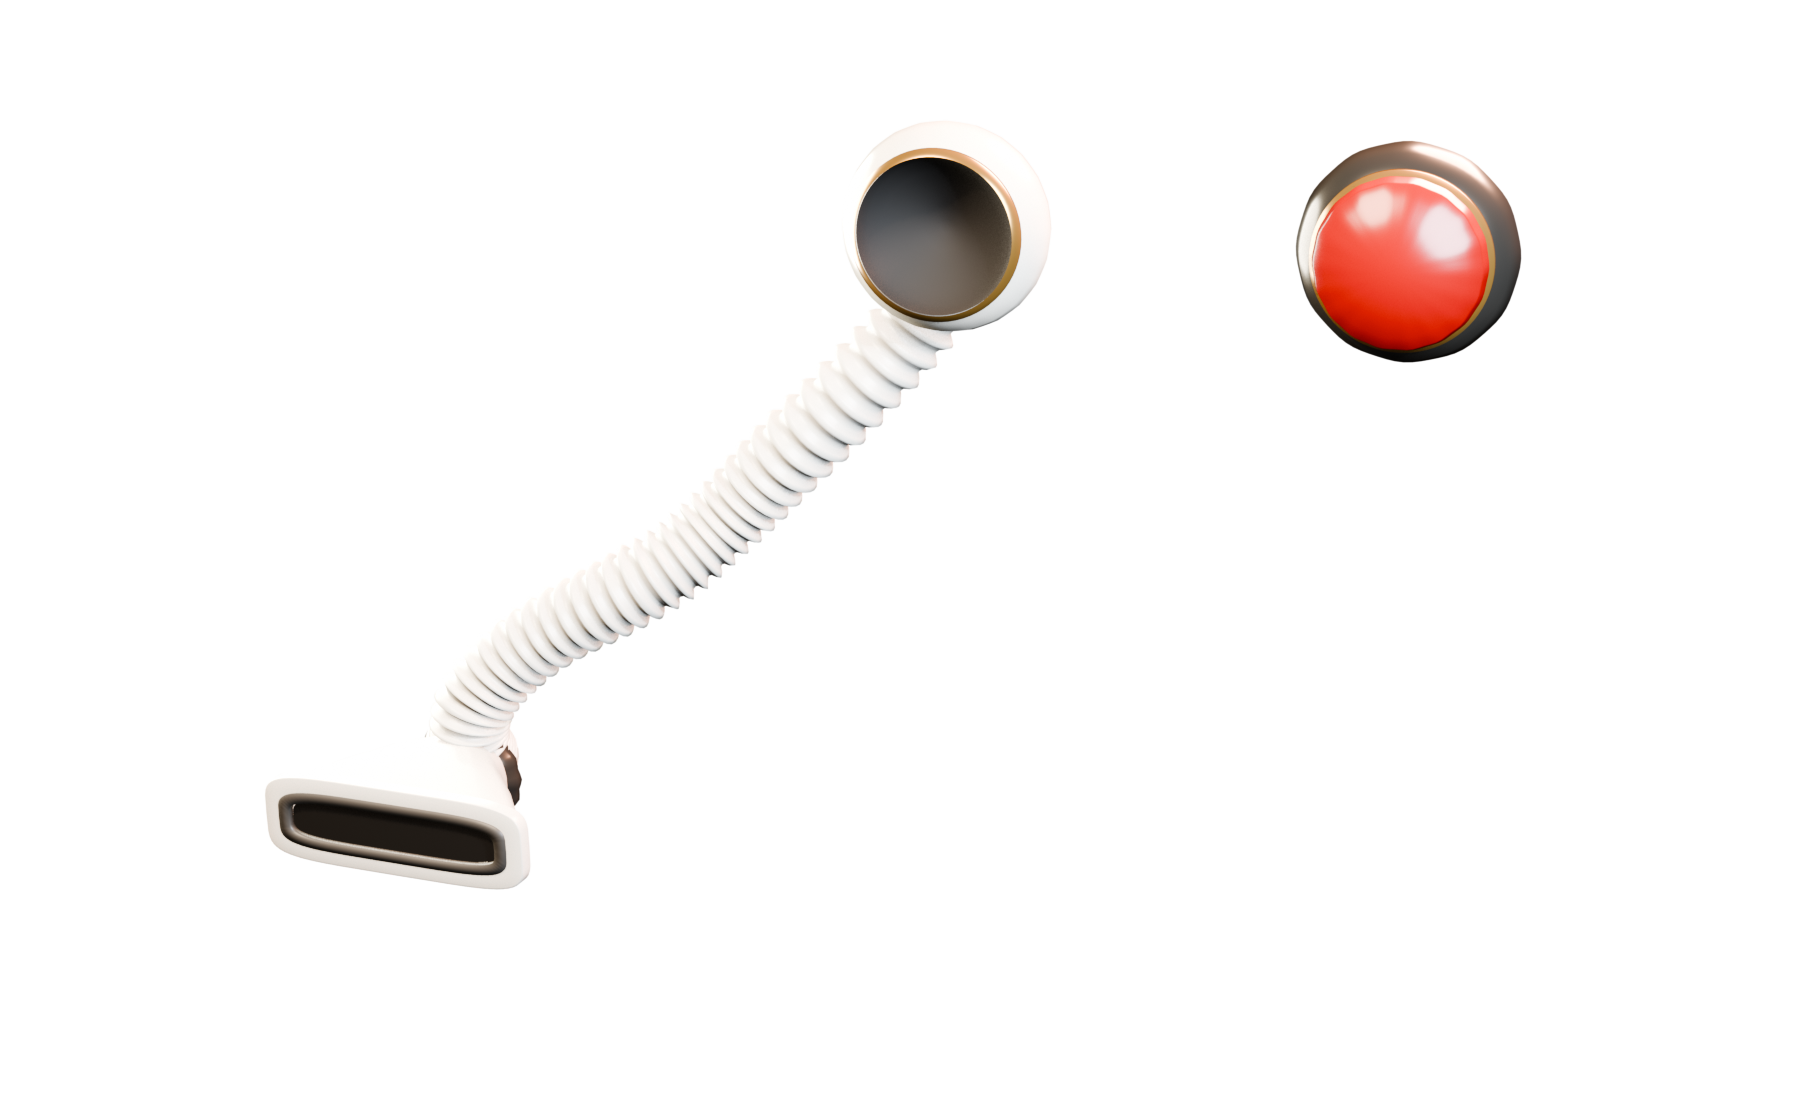
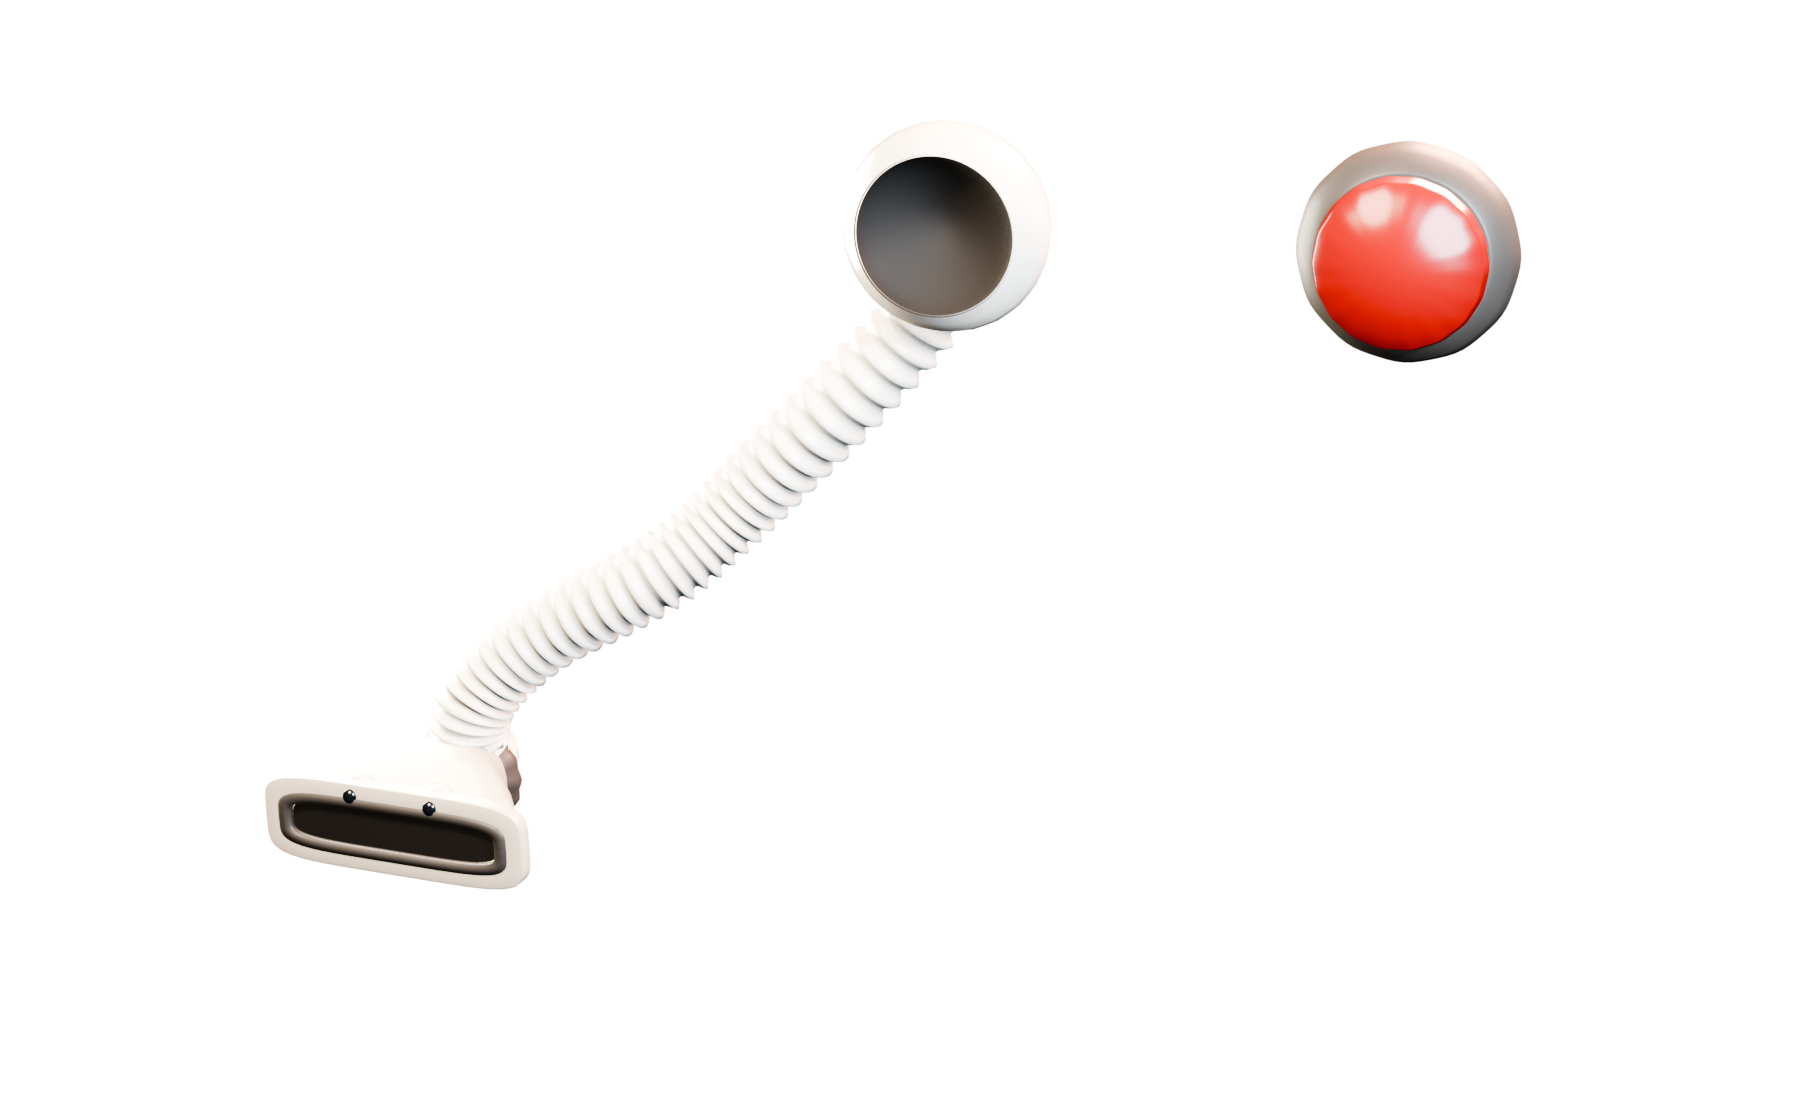
fix: turn the Voice VAC mouth upward

diff --git a/native/macos/App/VoiceVACAppTests/NozzleInteractionTests.swift b/native/macos/App/VoiceVACAppTests/NozzleInteractionTests.swift
@@ -1,4 +1,5 @@
 import AppKit
+import RealityKit
 import simd
 import VoiceVACCore
 import XCTest
@@ -96,10 +97,39 @@ final class NozzleInteractionTests: XCTestCase {
         let firstPass = stride(from: 0.0, through: animator.duration, by: 0.025).map(animator.frame(at:))
         let secondPass = stride(from: 0.0, through: animator.duration, by: 0.025).map(animator.frame(at:))
         XCTAssertEqual(firstPass, secondPass)
+        XCTAssertLessThanOrEqual(
+            firstPass.map { abs($0.translation.x) }.max() ?? .infinity,
+            6,
+            "The URL gesture must curl into screen depth, not travel to the right"
+        )
+        XCTAssertGreaterThan(
+            firstPass.map(\.intoScreenDepth).max() ?? 0,
+            0.04,
+            "The double-click gesture needs a visible Z-depth S curl"
+        )
         XCTAssertEqual(animator.frame(at: 0).stage, .unlockAndLift)
         XCTAssertEqual(animator.frame(at: animator.duration).stage, .reverseSCurlAndInput)
-        XCTAssertEqual(animator.frame(at: animator.duration).mouthRotation, .pi / 2, accuracy: 0.0001)
+        XCTAssertEqual(animator.frame(at: animator.duration).mouthRevealRotation, .pi / 2, accuracy: 0.0001)
         XCTAssertTrue(animator.frame(at: animator.duration).showsURLInput)
+    }
+
+    func testDoubleClickFinishMovesIntoDepthAndExposesTheMouthToTheCamera() async throws {
+        let animator = NozzleURLAnimator()
+        let finalFrame = animator.frame(at: animator.duration)
+        let device = VoiceVACDeviceInteractionController()
+        let nozzle = try await device.loadNozzleClone()
+        let presentationRoot = Entity()
+        device.bindNozzlePresentationRoot(presentationRoot)
+
+        try device.applyURLAnimationFrame(finalFrame)
+
+        XCTAssertEqual(
+            presentationRoot.position.z,
+            -nozzle.position.z - Float(finalFrame.intoScreenDepth),
+            accuracy: 0.000_01
+        )
+        let cameraFacingMouthNormal = nozzle.transform.rotation.act(SIMD3<Float>(0, -1, 0))
+        XCTAssertGreaterThan(cameraFacingMouthNormal.z, 0.9)
     }
 
     func testURLInputOnlyBecomesKeyWhilePresentedAndAcceptsReturnAndStart() throws {

diff --git a/native/macos/App/VoiceVAC/Interaction/NozzleURLAnimator.swift b/native/macos/App/VoiceVAC/Interaction/NozzleURLAnimator.swift
@@ -20,7 +20,10 @@ struct NozzleURLAnimationFrame: Equatable {
     let stageProgress: CGFloat
     let translation: CGPoint
     let lift: CGFloat
-    let mouthRotation: CGFloat
+    /// Positive values travel away from the camera, deeper into the desktop.
+    let intoScreenDepth: CGFloat
+    /// Rotates the duckbill around screen X until the mouth faces the user.
+    let mouthRevealRotation: CGFloat
     let cCurl: CGFloat
     let reverseSCurl: CGFloat
     let inputOpacity: CGFloat
@@ -56,7 +59,8 @@ struct NozzleURLAnimator {
                 stageProgress: progress,
                 translation: CGPoint(x: 0, y: 18 * eased),
                 lift: 18 * eased,
-                mouthRotation: 0,
+                intoScreenDepth: 0.006 * eased,
+                mouthRevealRotation: 0,
                 cCurl: 0,
                 reverseSCurl: 0,
                 inputOpacity: 0,
@@ -66,9 +70,10 @@ struct NozzleURLAnimator {
             return NozzleURLAnimationFrame(
                 stage: keyframe.stage,
                 stageProgress: progress,
-                translation: CGPoint(x: 0, y: 18),
+                translation: CGPoint(x: 0, y: 18 + 4 * eased),
                 lift: 18,
-                mouthRotation: (.pi / 2) * eased,
+                intoScreenDepth: 0.006 + 0.038 * eased,
+                mouthRevealRotation: (.pi / 5) * eased,
                 cCurl: 0,
                 reverseSCurl: 0,
                 inputOpacity: 0,
@@ -79,11 +84,12 @@ struct NozzleURLAnimator {
                 stage: keyframe.stage,
                 stageProgress: progress,
                 translation: CGPoint(
-                    x: 112 * eased,
-                    y: 18 + sin(.pi * eased) * 30
+                    x: 5 * sin(.pi * eased),
+                    y: 22 + 12 * eased
                 ),
                 lift: 18,
-                mouthRotation: .pi / 2,
+                intoScreenDepth: 0.044 + 0.022 * sin(.pi * eased),
+                mouthRevealRotation: (.pi / 5) + (3 * .pi / 10) * eased,
                 cCurl: eased,
                 reverseSCurl: 0,
                 inputOpacity: 0,
@@ -95,11 +101,12 @@ struct NozzleURLAnimator {
                 stage: keyframe.stage,
                 stageProgress: progress,
                 translation: CGPoint(
-                    x: 112 + 74 * eased,
-                    y: 18 + sin(eased * .pi * 2) * 13
+                    x: -5 * sin(eased * .pi * 2),
+                    y: 34 + 8 * eased
                 ),
                 lift: 18,
-                mouthRotation: .pi / 2,
+                intoScreenDepth: 0.044 - 0.026 * eased + 0.008 * sin(eased * .pi * 2),
+                mouthRevealRotation: .pi / 2,
                 cCurl: 1,
                 reverseSCurl: eased,
                 inputOpacity: inputProgress,

diff --git a/native/macos/App/VoiceVAC/Reality/VoiceVACDeviceInteractionController.swift b/native/macos/App/VoiceVAC/Reality/VoiceVACDeviceInteractionController.swift
@@ -192,21 +192,32 @@ final class VoiceVACDeviceInteractionController {
         }
         let docked = try requiredTransform(for: .nozzleDocked)
         let lifted = try requiredTransform(for: .nozzleLiftRotate)
-        let deployed = try requiredTransform(for: .nozzleDeployed)
         let authored: Transform
         switch frame.stage {
         case .unlockAndLift:
             authored = Self.interpolate(from: docked, to: lifted, progress: Float(frame.stageProgress))
-        case .rotateInPlane:
+        case .rotateInPlane, .cExtension, .reverseSCurlAndInput:
+            // The URL gesture stays above its dock and bends through Z depth.
+            // Interpolating toward the drag pose here would introduce the old
+            // rightward screen-plane sweep the interaction is meant to avoid.
             authored = lifted
-        case .cExtension, .reverseSCurlAndInput:
-            authored = Self.interpolate(from: lifted, to: deployed, progress: Float(frame.stageProgress))
         }
         var transformed = authored
-        let extraRotation = simd_quatf(angle: Float(frame.mouthRotation), axis: SIMD3(0, 0, 1))
-        transformed.rotation = simd_normalize(authored.rotation * extraRotation)
+        let mouthReveal = simd_quatf(
+            angle: Float(frame.mouthRevealRotation),
+            axis: SIMD3(1, 0, 0)
+        )
+        // This is a screen-space pitch, not a local-roll. The dock pose turns
+        // the narrow side of the nozzle toward the viewer; pre-multiplying
+        // tips its upward-facing mouth through Z until the opening faces the
+        // camera at the end of the reverse-S gesture.
+        transformed.rotation = simd_normalize(mouthReveal * authored.rotation)
         nozzleEntity.transform = transformed
         recenterNozzlePresentation()
+        // The presentation camera sits on +Z and looks toward -Z. Moving the
+        // presentation root in -Z therefore makes the head curl into the
+        // screen instead of sliding across the desktop to the right.
+        nozzlePresentationRootEntity?.position.z -= Float(frame.intoScreenDepth)
     }
 
     func bindNozzlePresentationRoot(_ root: Entity) {

diff --git a/native/macos/App/VoiceVACAppTests/RealityAssetContractTests.swift b/native/macos/App/VoiceVACAppTests/RealityAssetContractTests.swift
@@ -72,13 +72,28 @@ final class RealityAssetContractTests: XCTestCase {
         XCTAssertEqual(contract.reproducibility.sceneSemanticSHA256.count, 64)
     }
 
-    func testBundledDeviceUsesVacuumMaterialsInsteadOfOrnamentalBrass() throws {
+    func testBundledDeviceKeepsTheHoseWhiteAndWarmsOnlyTheVacuumHead() throws {
         let contract = try loadContract()
 
         XCTAssertFalse(contract.materials.contains("MAT_BRASS_ACCENT"))
         XCTAssertFalse(contract.materials.contains { $0.localizedCaseInsensitiveContains("brass") })
+        XCTAssertTrue(contract.materials.contains("MAT_PEARL_PLASTIC"))
+        XCTAssertTrue(contract.materials.contains("MAT_PEARL_RIBBED"))
         XCTAssertTrue(contract.materials.contains("MAT_TOY_IVORY"))
-        XCTAssertTrue(contract.materials.contains("MAT_TOY_IVORY_RIBBED"))
+        XCTAssertEqual(contract.materialAssignments["VAC_PORT"], ["MAT_PEARL_PLASTIC"])
+        XCTAssertEqual(contract.materialAssignments["VAC_HOSE_SKIN"], ["MAT_PEARL_RIBBED"])
+        XCTAssertEqual(contract.materialAssignments["VAC_NOZZLE_SHELL"], ["MAT_TOY_IVORY"])
+        XCTAssertEqual(contract.materialAssignments["VAC_NOZZLE_TIP"], ["MAT_TOY_IVORY"])
+    }
+
+    func testBundledDockPosePointsTheDuckbillUpward() throws {
+        let contract = try loadContract()
+        let dock = try XCTUnwrap(contract.runtimePoseDelivery.namedPoses["nozzleDocked"])
+
+        XCTAssertEqual(abs(dock.transform.rotationQuaternion[1]), sqrt(0.5), accuracy: 0.000_1)
+        XCTAssertEqual(abs(dock.transform.rotationQuaternion[2]), 0, accuracy: 0.000_1)
+        XCTAssertEqual(abs(dock.transform.rotationQuaternion[3]), sqrt(0.5), accuracy: 0.000_1)
+        XCTAssertEqual(abs(dock.transform.rotationQuaternion[0]), 0, accuracy: 0.000_1)
     }
 
     func testBundledNozzleHasTwoToyEyes() throws {
@@ -314,6 +329,7 @@ private struct AssetContract: Decodable {
     let runtimeNodes: [String]
     let joints: [String]
     let materials: [String]
+    let materialAssignments: [String: [String]]
     let localBounds: [String: Bounds]
     let nominalDockTransform: AssetTransform
     let nozzlePivot: AssetTransform

diff --git a/native/macos/App/VoiceVACAppTests/ProductionInteractionIntegrationTests.swift b/native/macos/App/VoiceVACAppTests/ProductionInteractionIntegrationTests.swift
@@ -59,10 +59,14 @@ final class ProductionInteractionIntegrationTests: XCTestCase {
         XCTAssertEqual(deployed.translation.x, expected.translation.x, accuracy: 0.000001)
         XCTAssertEqual(deployed.translation.y, expected.translation.y, accuracy: 0.000001)
         XCTAssertEqual(deployed.translation.z, expected.translation.z, accuracy: 0.000001)
-        XCTAssertEqual(deployed.rotation.real, expected.rotation.real, accuracy: 0.000001)
-        XCTAssertEqual(deployed.rotation.imag.x, expected.rotation.imag.x, accuracy: 0.000001)
-        XCTAssertEqual(deployed.rotation.imag.y, expected.rotation.imag.y, accuracy: 0.000001)
-        XCTAssertEqual(deployed.rotation.imag.z, expected.rotation.imag.z, accuracy: 0.000001)
+        // q and -q encode the same orientation. The new upward dock pose makes
+        // slerp arrive at the deployed quaternion through the opposite, but
+        // visually identical, quaternion hemisphere.
+        let deployedForward = deployed.rotation.act(SIMD3<Float>(0, -1, 0))
+        let expectedForward = expected.rotation.act(SIMD3<Float>(0, -1, 0))
+        XCTAssertEqual(deployedForward.x, expectedForward.x, accuracy: 0.000001)
+        XCTAssertEqual(deployedForward.y, expectedForward.y, accuracy: 0.000001)
+        XCTAssertEqual(deployedForward.z, expectedForward.z, accuracy: 0.000001)
     }
 
     func testLiveFactoryWiresOneSharedStoreRuntimeAndRealPanels() throws {
@@ -236,7 +240,9 @@ final class ProductionInteractionIntegrationTests: XCTestCase {
 
         XCTAssertNotEqual(nozzle.transform, initial)
         XCTAssertEqual(presenter.urlPresentationEvents, [false, true])
-        XCTAssertEqual(try XCTUnwrap(presenter.nozzleMoves.last).center.x, 386, accuracy: 0.001)
+        let finalMove = try XCTUnwrap(presenter.nozzleMoves.last)
+        XCTAssertEqual(finalMove.center.x, 200, accuracy: 0.001)
+        XCTAssertEqual(finalMove.center.y, 242, accuracy: 0.001)
         XCTAssertFalse(clock.isRunning)
     }
 

diff --git a/tools/blender/scripts/build_voice_vac.py b/tools/blender/scripts/build_voice_vac.py
@@ -28,8 +28,9 @@ from mathutils import Matrix, Vector
 SCHEMA_VERSION = 2
 JOINT_NAMES = [f"VAC_HOSE_JOINT_{index:02d}" for index in range(64)]
 MATERIAL_NAMES = [
+    "MAT_PEARL_PLASTIC",
+    "MAT_PEARL_RIBBED",
     "MAT_TOY_IVORY",
-    "MAT_TOY_IVORY_RIBBED",
     "MAT_CHARCOAL_RUBBER",
     "MAT_BUTTON_RED",
     "MAT_MOUTH_DARK",
@@ -166,6 +167,28 @@ def create_material(
 
 def build_materials() -> dict[str, bpy.types.Material]:
     return {
+        "MAT_PEARL_PLASTIC": create_material(
+            "MAT_PEARL_PLASTIC",
+            (0.91, 0.875, 0.79, 1.0),
+            metallic=0.02,
+            roughness=0.24,
+            coat_weight=0.34,
+            coat_roughness=0.16,
+            subsurface_weight=0.025,
+            handmade_bump=0.055,
+        ),
+        "MAT_PEARL_RIBBED": create_material(
+            "MAT_PEARL_RIBBED",
+            # Keep the accordion body white. The warmer toy ivory belongs to
+            # the detachable vacuum head only.
+            (0.93, 0.91, 0.84, 1.0),
+            metallic=0.0,
+            roughness=0.38,
+            coat_weight=0.16,
+            coat_roughness=0.26,
+            subsurface_weight=0.018,
+            handmade_bump=0.075,
+        ),
         "MAT_TOY_IVORY": create_material(
             "MAT_TOY_IVORY",
             (0.70, 0.64, 0.52, 1.0),
@@ -175,18 +198,6 @@ def build_materials() -> dict[str, bpy.types.Material]:
             coat_roughness=0.19,
             subsurface_weight=0.025,
             handmade_bump=0.055,
-        ),
-        "MAT_TOY_IVORY_RIBBED": create_material(
-            "MAT_TOY_IVORY_RIBBED",
-            # Warm cream must survive the white desktop without becoming a
-            # bright yellow toy or a grey technical conduit.
-            (0.73, 0.68, 0.57, 1.0),
-            metallic=0.0,
-            roughness=0.41,
-            coat_weight=0.14,
-            coat_roughness=0.29,
-            subsurface_weight=0.018,
-            handmade_bump=0.075,
         ),
         "MAT_CHARCOAL_RUBBER": create_material(
             "MAT_CHARCOAL_RUBBER",
@@ -471,7 +482,7 @@ def build_device(
     port = lathe_mesh(
         "VAC_PORT",
         port_profile,
-        materials["MAT_TOY_IVORY"],
+        materials["MAT_PEARL_PLASTIC"],
         collection,
         radial_ripple=0.003,
         ripple_count=24,
@@ -505,7 +516,7 @@ def build_device(
     nozzle.empty_display_type = "ARROWS"
     nozzle.location = DOCK_LOCATION
     nozzle.rotation_mode = "XYZ"
-    nozzle.rotation_euler = (0.0, math.radians(90.0), 0.0)
+    nozzle.rotation_euler = (0.0, math.radians(90.0), math.radians(180.0))
     nozzle["voice_vac_pivot"] = "rotary_collar_center"
     parent(nozzle, device_root)
 
@@ -662,7 +673,7 @@ def build_device(
     ready_light = lathe_mesh(
         "VAC_BUTTON_READY_LIGHT",
         [(-0.021, 0.051), (-0.024, 0.054), (-0.028, 0.054), (-0.031, 0.051)],
-        materials["MAT_TOY_IVORY"],
+        materials["MAT_PEARL_PLASTIC"],
         collection,
         segments=80,
         cap_start=False,
@@ -797,7 +808,7 @@ def build_hose(
         vertices,
         faces,
         uvs,
-        materials["MAT_TOY_IVORY_RIBBED"],
+        materials["MAT_PEARL_RIBBED"],
         collection,
     )
     skin.parent = armature
@@ -879,8 +890,8 @@ def build_actions(device: dict[str, bpy.types.Object], hose: dict[str, bpy.types
         nozzle,
         "VAC_NOZZLE_POSES",
         [
-            (1, DOCK_LOCATION, (0.0, math.radians(90.0), 0.0), Vector((1.0, 1.0, 1.0))),
-            (10, DOCK_LOCATION + Vector((0.0, -0.010, 0.018)), (0.0, math.radians(22.0), 0.0), Vector((1.0, 1.0, 1.0))),
+            (1, DOCK_LOCATION, (0.0, math.radians(90.0), math.radians(180.0)), Vector((1.0, 1.0, 1.0))),
+            (10, DOCK_LOCATION + Vector((0.0, 0.010, 0.018)), (0.0, math.radians(90.0), math.radians(180.0)), Vector((1.0, 1.0, 1.0))),
             (24, tip_point + Vector((0.0, -0.018, 0.0)), (0.0, 0.0, math.radians(-8.0)), Vector((1.0, 1.0, 1.0))),
             (36, tip_point + Vector((0.0, -0.012, 0.0)), (math.radians(4.0), 0.0, math.radians(-8.0)), Vector((1.0, 0.92, 1.04))),
         ],

diff --git a/tools/blender/scripts/validate_voice_vac.py b/tools/blender/scripts/validate_voice_vac.py
@@ -37,8 +37,9 @@ REQUIRED_OBJECTS = {
 }
 REQUIRED_JOINTS = [f"VAC_HOSE_JOINT_{index:02d}" for index in range(64)]
 REQUIRED_MATERIALS = {
+    "MAT_PEARL_PLASTIC",
+    "MAT_PEARL_RIBBED",
     "MAT_TOY_IVORY",
-    "MAT_TOY_IVORY_RIBBED",
     "MAT_CHARCOAL_RUBBER",
     "MAT_BUTTON_RED",
     "MAT_MOUTH_DARK",
@@ -66,7 +67,9 @@ MESH_BINARY_ENDIAN_MARKER = 0x01020304
 EXPECTED_SCHEMA_VERSION = 2
 EXPECTED_PREVIEW_SIZE = (1800, 1100)
 EXPECTED_DOCK_TRANSLATION = (-0.132, -0.037, 0.002)
-EXPECTED_DOCK_ROTATION = (math.sqrt(0.5), 0.0, math.sqrt(0.5), 0.0)
+# The Y quarter-turn presents the narrow vacuum-head silhouette while the Z
+# half-turn reverses the authored negative-Y body axis from down to up.
+EXPECTED_DOCK_ROTATION = (0.0, -math.sqrt(0.5), 0.0, math.sqrt(0.5))
 EXPECTED_BUTTON_UP_TRANSLATION = (0.128, 0.006, 0.002)
 EXPECTED_BUTTON_TRAVEL_METERS = 0.009
 REQUIRED_NAMED_POSES = {
@@ -950,8 +953,12 @@ def validate_usdz(check: Validation, path: Path, required_names: set[str], contr
                     "VoiceVACDevice.usdz nozzle is not exported at dock-rest scale",
                 )
                 check.require(
-                    triplet_close(usd_triplet(nozzle_block, "xformOp:rotateXYZ"), (0.0, 90.0, 0.0), tolerance=1.0e-3),
-                    "VoiceVACDevice.usdz nozzle is not vertically docked",
+                    triplet_close(
+                        usd_triplet(nozzle_block, "xformOp:rotateXYZ"),
+                        (180.0, 90.0, 0.0),
+                        tolerance=1.0e-3,
+                    ),
+                    "VoiceVACDevice.usdz duckbill does not point upward while docked",
                 )
             if button_block is not None:
                 check.require(